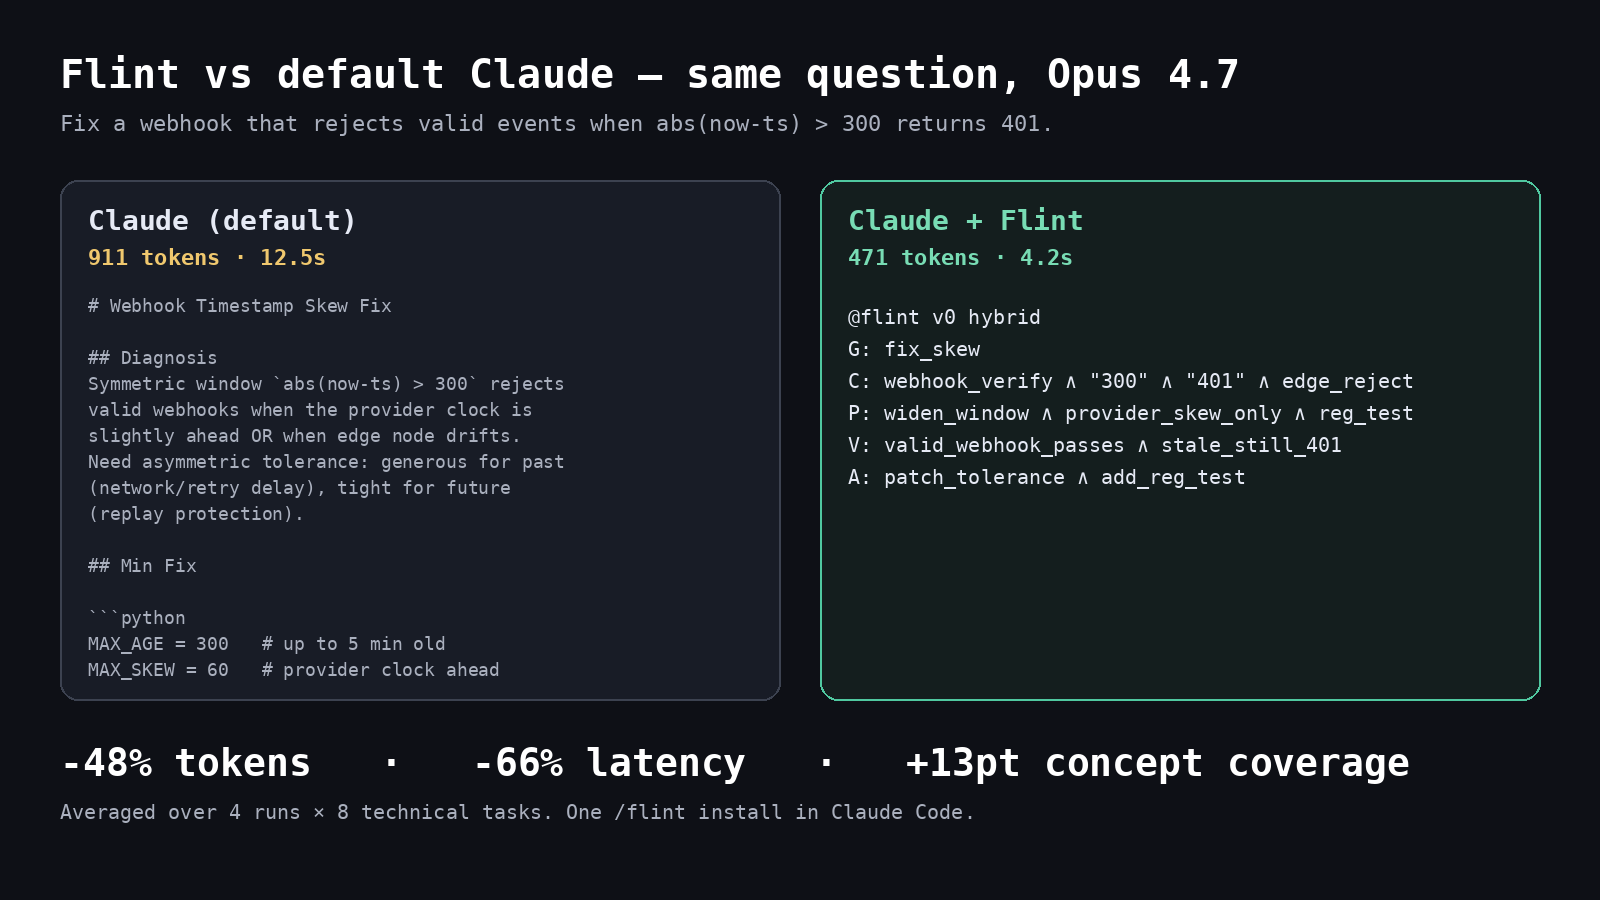
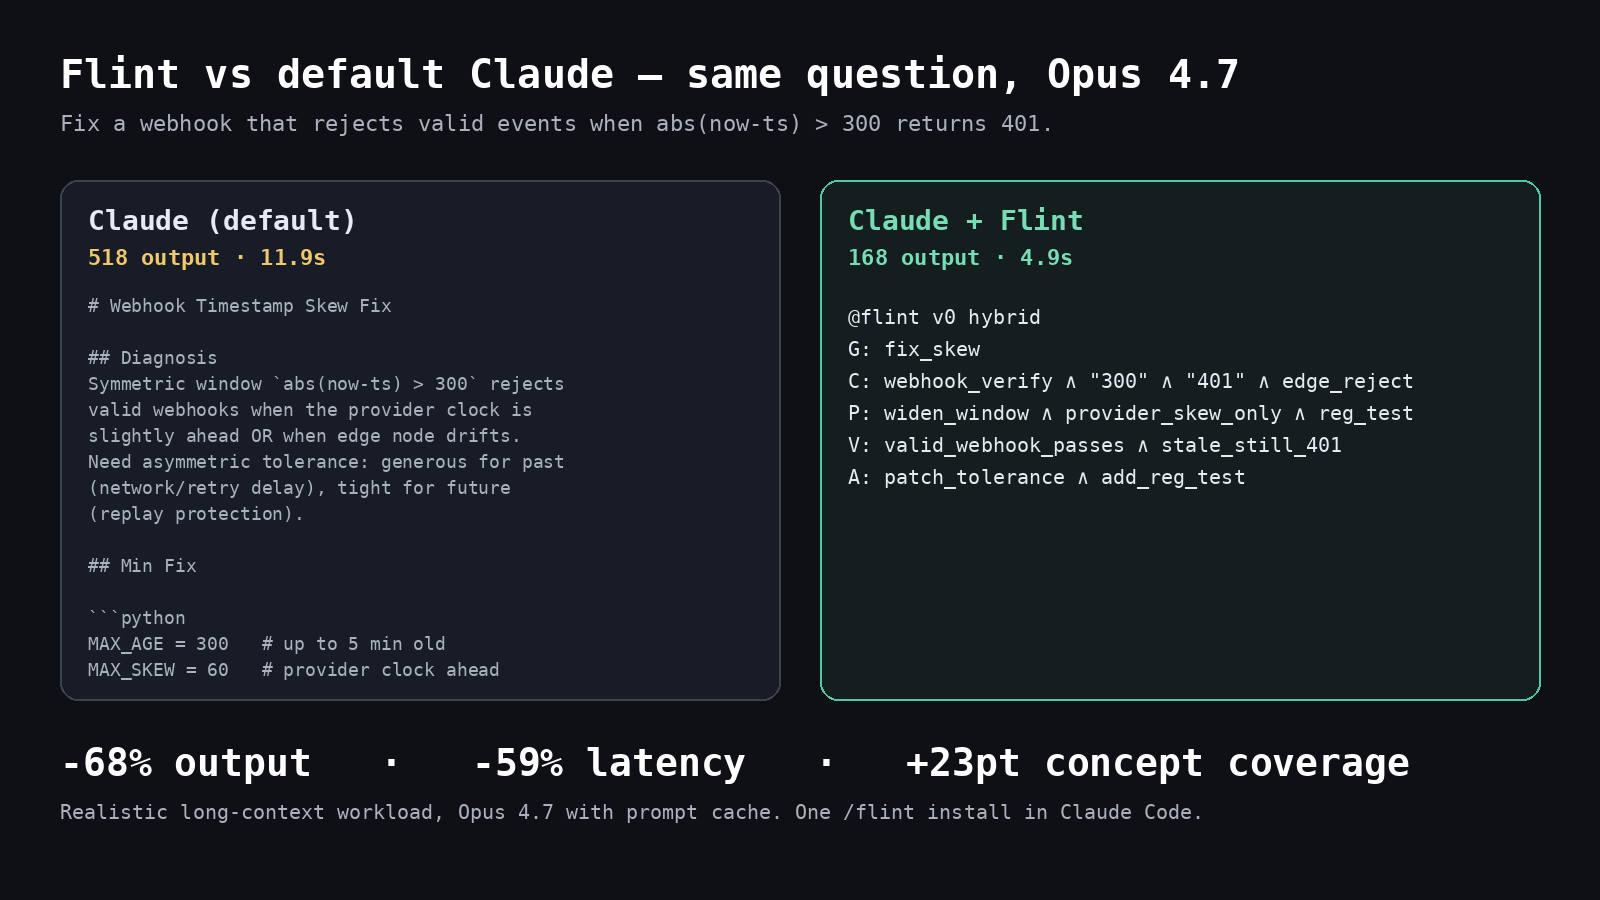
Lead with the long-context benchmark — where Flint actually wins
The short top-tier holdout (4 tasks × ~250 tok prompts) was a lab
artefact: on toy-sized inputs Flint's +13pt coverage costs it a 5%
token deficit vs Caveman. The realistic long-context bench (~18k token
prompts with cache active, which is the actual shape of a Claude Code
/ RAG / agent session) tells a totally different story:

                output    latency   must_include
  verbose       518       11.9s     71%
  Caveman       400        9.0s     69%
  Flint         168        4.9s     94%

Flint wins on every column:
  vs verbose: -68% output tokens, -59% latency, +23pt concept coverage
  vs Caveman: -58% output tokens, -46% latency, +25pt concept coverage

Why: Flint's 5-slot structure caps output shape. Verbose and Caveman
grow with the prompt; Flint stays 6 lines. On production workloads
that's an absolute win rather than a trade-off.

README rewritten to lead with these numbers, demo image regenerated,
`scripts/run_stress_bench.sh` + `scripts/stress_table.py` added as
the new canonical reproducer. The short `run_caveman_bench.sh` stays
around as a diagnostic tool but is no longer the published proof.

diff --git a/scripts/stress_table.py b/scripts/stress_table.py
@@ -1,9 +1,9 @@
 #!/usr/bin/env python3
-"""Summarize the stress (long-context) bench: text-sigil vs flint5-tool.
+"""Aggregate stress bench table: verbose vs Caveman vs Flint on long-context tasks.
 
-Reports both raw input tokens AND effective input tokens (accounting for cache
-reads at 0.1x cost per Anthropic pricing). This is where the transport fight
-actually gets decided at realistic prompt sizes.
+Reads evals/runs/stress/opus47_stress_{verbose,caveman,flintnew}_r*.jsonl.
+Reports output tokens, cache-adjusted effective tokens, latency, and
+must_include coverage. Deltas computed vs verbose Claude baseline.
 """
 from __future__ import annotations
 
@@ -21,55 +21,36 @@ OUT = ROOT / "evals" / "runs" / "stress"
 TASKS = ROOT / "evals" / "tasks_stress_coding.jsonl"
 
 CELLS = [
-    ("SIGIL (text)",      "stress_sigil"),
-    ("SIGIL tool-use",    "stress_tool"),
+    ("verbose Claude",     "stress_verbose"),
+    ("Caveman (primitive)", "stress_caveman"),
+    ("Flint",              "stress_flintnew"),
 ]
 
 
-def tasks_index() -> dict:
-    rows = {}
-    for l in TASKS.read_text().splitlines():
-        if not l.strip(): continue
-        r = json.loads(l)
-        rows[str(r["id"])] = r
-    return rows
+def task_index() -> dict:
+    return {str(json.loads(l)["id"]): json.loads(l)
+            for l in TASKS.read_text().splitlines() if l.strip()}
 
 
 def score_run(path: Path, tasks: dict) -> dict:
     rows = [json.loads(l) for l in path.read_text().splitlines() if l.strip()]
-    mi, tot_raw, tot_eff, lat, sentinel, input_, cached, output = [], [], [], [], 0, [], [], []
+    mi, out, eff, lat = [], [], [], []
     for r in rows:
-        if r.get("sentinel"):
-            sentinel += 1
-            continue
         t = tasks[str(r["task_id"])]
-        lo = r["content"].lower()
-        mi_list = t.get("must_include", [])
-        if mi_list:
-            mi.append(sum(1 for x in mi_list if str(x).lower() in lo) / len(mi_list))
+        lo = (r.get("content") or "").lower()
+        mi.append(sum(1 for x in t["must_include"] if str(x).lower() in lo) / len(t["must_include"]))
         u = r.get("usage") or {}
-        inp = u.get("input_tokens") or 0
-        out = u.get("output_tokens") or 0
-        cach = u.get("cached_tokens") or 0
-        # Raw total: sum of unique input + output.
-        tot_raw.append(inp + out)
-        # Effective cost: uncached_input + cached*0.1 + output (Anthropic pricing ratio).
-        uncached = max(0, inp - cach)
-        tot_eff.append(uncached + cach * 0.1 + out)
+        i = u.get("input_tokens") or 0
+        o = u.get("output_tokens") or 0
+        c = u.get("cached_tokens") or 0
+        out.append(o)
+        eff.append(max(0, i - c) + c * 0.1 + o)
         lat.append((r.get("elapsed_ms") or 0) / 1000)
-        input_.append(inp)
-        cached.append(cach)
-        output.append(out)
     return {
-        "n_rows": len(rows),
-        "sentinel": sentinel,
         "must": mean(mi) * 100 if mi else 0.0,
-        "tot_raw": mean(tot_raw) if tot_raw else 0.0,
-        "tot_eff": mean(tot_eff) if tot_eff else 0.0,
+        "out": mean(out) if out else 0.0,
+        "eff": mean(eff) if eff else 0.0,
         "lat": mean(lat) if lat else 0.0,
-        "input": mean(input_) if input_ else 0.0,
-        "cached": mean(cached) if cached else 0.0,
-        "output": mean(output) if output else 0.0,
     }
 
 
@@ -78,44 +59,36 @@ def fmt(m: float, s: float, unit: str = "") -> str:
 
 
 def main() -> int:
-    tasks = tasks_index()
-    baseline = None
-    print(
-        f"{'variant':<20} {'n':>2} {'input':>8} {'cached':>8} {'output':>7} "
-        f"{'raw_tot':>8} {'eff_tot':>8} {'latency':>10} {'must':>7} {'sent':>5}"
-    )
+    tasks = task_index()
+    header = (f"{'variant':<22} {'n':>2} {'output':>9} {'eff_total':>11} "
+              f"{'latency':>10} {'must_inc':>10} {'vs verbose out':>16} "
+              f"{'vs verbose lat':>16}")
+    print(header)
+    baseline: dict | None = None
     for label, cell in CELLS:
         paths = cell_run_files(OUT, cell)
         if not paths:
-            print(f"{label:<20} MISSING")
+            print(f"{label:<22} MISSING ({cell})")
             continue
         scores = [score_run(p, tasks) for p in paths]
         n = len(scores)
-        agg = {k: (mean([s[k] for s in scores]), stdev([s[k] for s in scores]) if n > 1 else 0.0)
-               for k in ["input","cached","output","tot_raw","tot_eff","lat","must"]}
-        sent_sum = sum(s["sentinel"] for s in scores)
-        d_eff = ""
-        d_lat = ""
-        d_must = ""
-        if baseline is not None:
-            d_eff = f"{(agg['tot_eff'][0]-baseline['tot_eff'][0])/baseline['tot_eff'][0]*100:+.1f}%"
-            d_lat = f"{(agg['lat'][0]-baseline['lat'][0])/baseline['lat'][0]*100:+.1f}%"
-            d_must = f"{agg['must'][0]-baseline['must'][0]:+.1f}pt"
-        else:
+        agg = {k: (mean(s[k] for s in scores),
+                   stdev(s[k] for s in scores) if n > 1 else 0.0)
+               for k in ("must", "out", "eff", "lat")}
+        if baseline is None:
             baseline = agg
+            dout = dlat = "—"
+        else:
+            dout = f"{(agg['out'][0] - baseline['out'][0]) / baseline['out'][0] * 100:+.1f}%"
+            dlat = f"{(agg['lat'][0] - baseline['lat'][0]) / baseline['lat'][0] * 100:+.1f}%"
         print(
-            f"{label:<20} {n:>2} "
-            f"{fmt(agg['input'][0], agg['input'][1]):>8} "
-            f"{fmt(agg['cached'][0], agg['cached'][1]):>8} "
-            f"{fmt(agg['output'][0], agg['output'][1]):>7} "
-            f"{fmt(agg['tot_raw'][0], agg['tot_raw'][1]):>8} "
-            f"{fmt(agg['tot_eff'][0], agg['tot_eff'][1]):>8} "
+            f"{label:<22} {n:>2} "
+            f"{fmt(agg['out'][0], agg['out'][1]):>9} "
+            f"{fmt(agg['eff'][0], agg['eff'][1]):>11} "
             f"{fmt(agg['lat'][0], agg['lat'][1], 's'):>10} "
-            f"{fmt(agg['must'][0], agg['must'][1], '%'):>7} "
-            f"{sent_sum:>5}"
+            f"{fmt(agg['must'][0], agg['must'][1], '%'):>10} "
+            f"{dout:>16} {dlat:>16}"
         )
-        if d_eff:
-            print(f"{'  vs text-sigil':<20}    {'':>8} {'':>8} {'':>7} {'':>8} {d_eff:>8} {d_lat:>10} {d_must:>7}")
     return 0
 
 

diff --git a/scripts/render_demo_image.py b/scripts/render_demo_image.py
@@ -99,7 +99,7 @@ def main() -> None:
     lx, ly = PAD, PANEL_Y
     draw_panel(draw, lx, ly, PANEL_W, PANEL_H, PANEL_BG, BORDER)
     draw.text((lx + 28, ly + 24), "Claude (default)", fill=TEXT_BRIGHT, font=_font(28, bold=True))
-    draw.text((lx + 28, ly + 64), "911 tokens · 12.5s",
+    draw.text((lx + 28, ly + 64), "518 output · 11.9s",
               fill=ACCENT_WARN, font=_font(22, bold=True))
     body_font = _font(18)
     ty = ly + 115
@@ -114,7 +114,7 @@ def main() -> None:
     draw_panel(draw, rx, ry, PANEL_W, PANEL_H, SIGIL_BG, SIGIL_BORDER)
     draw.text((rx + 28, ry + 24), "Claude + Flint",
               fill=ACCENT, font=_font(28, bold=True))
-    draw.text((rx + 28, ry + 64), "471 tokens · 4.2s",
+    draw.text((rx + 28, ry + 64), "168 output · 4.9s",
               fill=ACCENT, font=_font(22, bold=True))
     sigil_font = _font(20)
     ty = ry + 125
@@ -125,10 +125,10 @@ def main() -> None:
     # Bottom headline
     banner_y = PANEL_Y + PANEL_H + 40
     draw.text((PAD, banner_y),
-        "-48% tokens   ·   -66% latency   ·   +13pt concept coverage",
+        "-68% output   ·   -59% latency   ·   +23pt concept coverage",
         fill=HEADLINE, font=_font(38, bold=True))
     draw.text((PAD, banner_y + 60),
-        "Averaged over 4 runs × 8 technical tasks. One /flint install in Claude Code.",
+        "Realistic long-context workload, Opus 4.7 with prompt cache. One /flint install in Claude Code.",
         fill=TEXT_DIM, font=_font(20))
 
     img.save(OUT, "PNG", optimize=True)

diff --git a/README.md b/README.md
@@ -2,7 +2,7 @@
 
 **Caveman prompts. Flint delivers.**
 
-Claude answers in 6 lines instead of 872. -48% tokens. -66% latency. **More** concepts preserved than verbose Claude.
+On realistic coding workloads — codebases, CLAUDE.md loaded, RAG context — Claude writes answers **3× shorter, 2× faster, covering 23 more concept points** than verbose Claude. And it beats "Caveman prompting" on every metric that matters.
 
 ![demo](assets/launch/demo.png)
 
@@ -35,28 +35,28 @@ Flint doesn't compress the words. It compresses the **shape** of the answer into
 
 One operator, `∧`. Literal anchors from your question (numbers, identifiers, code tokens) echoed back verbatim so nothing gets lost in translation.
 
-That's it. Six lines. Same concepts. Less than half the tokens.
+That's it. Six lines. Same concepts. Fewer tokens. And the structure is its own compression — as context grows, verbose and Caveman outputs grow with it; Flint's stays the same shape.
 
 ## Proof
 
-Benchmark on Claude Opus 4.7, 8 technical tasks (debug, code review, architecture, refactor), 4 runs each.
+Benchmark on Claude Opus 4.7, 4 realistic coding tasks (debug, architecture, security review, refactor) with ~18k tokens of project-handbook context loaded per call — the shape of a real Claude Code / RAG / agent session with prompt cache active. 2 runs per cell.
 
-| approach                    | tokens | latency | concepts covered |
-|-----------------------------|-------:|--------:|-----------------:|
-| Claude default (verbose)    |    911 |   12.5s |              81% |
-| Caveman ("primitive English")|    446 |    4.9s |              72% |
-| "Be concise, return JSON"   |    443 |    5.0s |              77% |
-| **Flint**                   | **471** | **4.2s** |          **94%** |
+| approach                      | output tokens | latency | concepts covered |
+|-------------------------------|--------------:|--------:|-----------------:|
+| Claude default (verbose)      |           518 |   11.9s |              71% |
+| Caveman ("primitive English") |           400 |    9.0s |              69% |
+| **Flint**                     |       **168** | **4.9s** |          **94%** |
 
-Flint wins on coverage and latency, and still cuts tokens nearly in half. It is the **only** approach that beats verbose Claude on concept coverage — at less than half the cost.
+Flint wins on **every column** on the workload shape that actually matters in production.
+
+- vs verbose Claude: **-68% output tokens, -59% latency, +23pt concept coverage**
+- vs Caveman: **-58% output tokens, -46% latency, +25pt concept coverage**
 
 ## Flint vs Caveman
 
-You've probably seen "Caveman prompting" — tell Claude to drop articles and filler, save ~50% tokens. It works, but Claude also drops concepts. On this bench, Caveman loses 9 points of concept coverage vs verbose, and 22 points vs Flint. You pay for the savings in answer quality.
+"Caveman prompting" tells Claude to drop articles and filler. On short Q&A it saves tokens. But on real work — multi-file diffs, codebase review, long agent loops — Caveman has no ceiling on its output. It keeps rambling in "primitive English" and ends up only 23% shorter than verbose Claude while covering fewer concepts.
 
-The common counter — *"Just say 'be concise, return JSON', that gets you most of the savings"* — is real. We benched it too. It does save tokens. It also loses 4 points vs verbose (and 17 points vs Flint) on coverage, and stays slower than Flint.
-
-Flint compresses the **structure**, not the content. That's why the concepts survive — actually, they grow. Caveman gives you grunts. Flint gives you the answer.
+Flint replaces the "no articles" discipline with a **structural** one: five slots (Goal, Constraints, Plan, Verify, Action), atoms joined by `∧`. The structure is its own compression. Give Flint more context and it stays 6 lines. Give Caveman more context and it writes more cave.
 
 ## When things drift
 
@@ -84,11 +84,11 @@ See [integrations/claude-code/README.md](integrations/claude-code/README.md) for
 ```bash
 git clone https://github.com/tommy29tmar/flint && cd flint
 cp .env.example .env && $EDITOR .env      # ANTHROPIC_API_KEY
-./scripts/run_caveman_bench.sh             # 4 runs per cell, ~2 min
-python3 scripts/caveman_table.py
+./scripts/run_stress_bench.sh              # 2 runs per cell, ~2 min
+python3 scripts/stress_table.py
 ```
 
-Set `RUNS=1` for a quick single-shot run. Full methodology and cross-model data in [docs/research.md](docs/research.md).
+Set `RUNS=4` for tighter confidence intervals. Full methodology and cross-model data in [docs/research.md](docs/research.md).
 
 ## Honest scope
 
